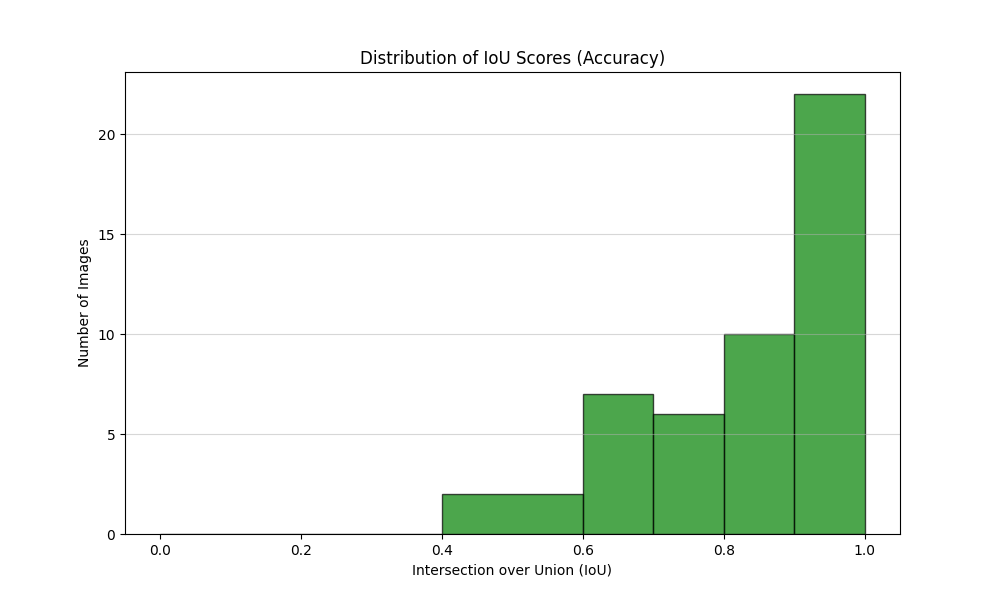
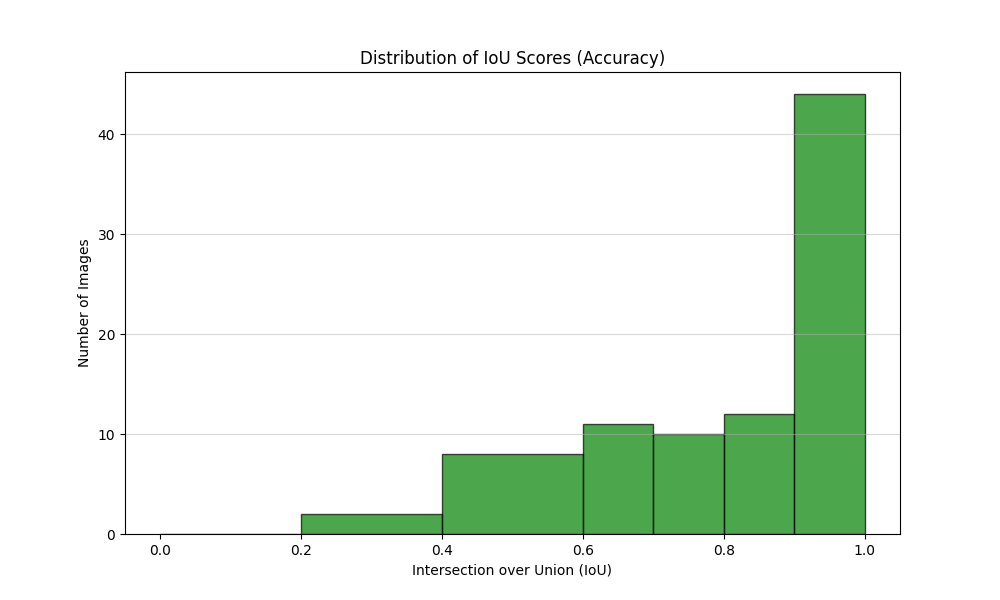
new dataset images(40 image) were added

diff --git a/main.py b/main.py
@@ -76,10 +76,10 @@ for img_path in image_paths:
     # final processing
     doc_cnt = best_cnt
     
-    #debug_vis = resized_image.copy()
+    debug_vis = resized_image.copy()
     if doc_cnt is not None:
-        #cv.drawContours(debug_vis, cnts, -1, (0, 0, 255), 1)
-        #cv.drawContours(debug_vis, [doc_cnt], -1, (0, 255, 0), 3)
+        cv.drawContours(debug_vis, cnts, -1, (0, 0, 255), 1)
+        cv.drawContours(debug_vis, [doc_cnt], -1, (0, 255, 0), 3)
         
         # points resized to original
         doc_cnt_original = doc_cnt.reshape(4, 2) * (1 / ratio)
@@ -110,12 +110,12 @@ for img_path in image_paths:
             print(f"Image: {filename} | Used: {best_method:17} | Detected")
         
         # save the warped version
-        #cv.imwrite(os.path.join("output", f"warped_{filename}"), warped)
+        cv.imwrite(os.path.join("output", f"warped_{filename}"), warped)
     else:
         print(f"Failed to detect document in {filename}")
 
     # save the version where the contours drawn
-    #cv.imwrite(os.path.join("visual", f"debug_{filename}"), debug_vis)
+    cv.imwrite(os.path.join("visual", f"debug_{filename}"), debug_vis)
 
 sum_iou = 0
 n = 0
